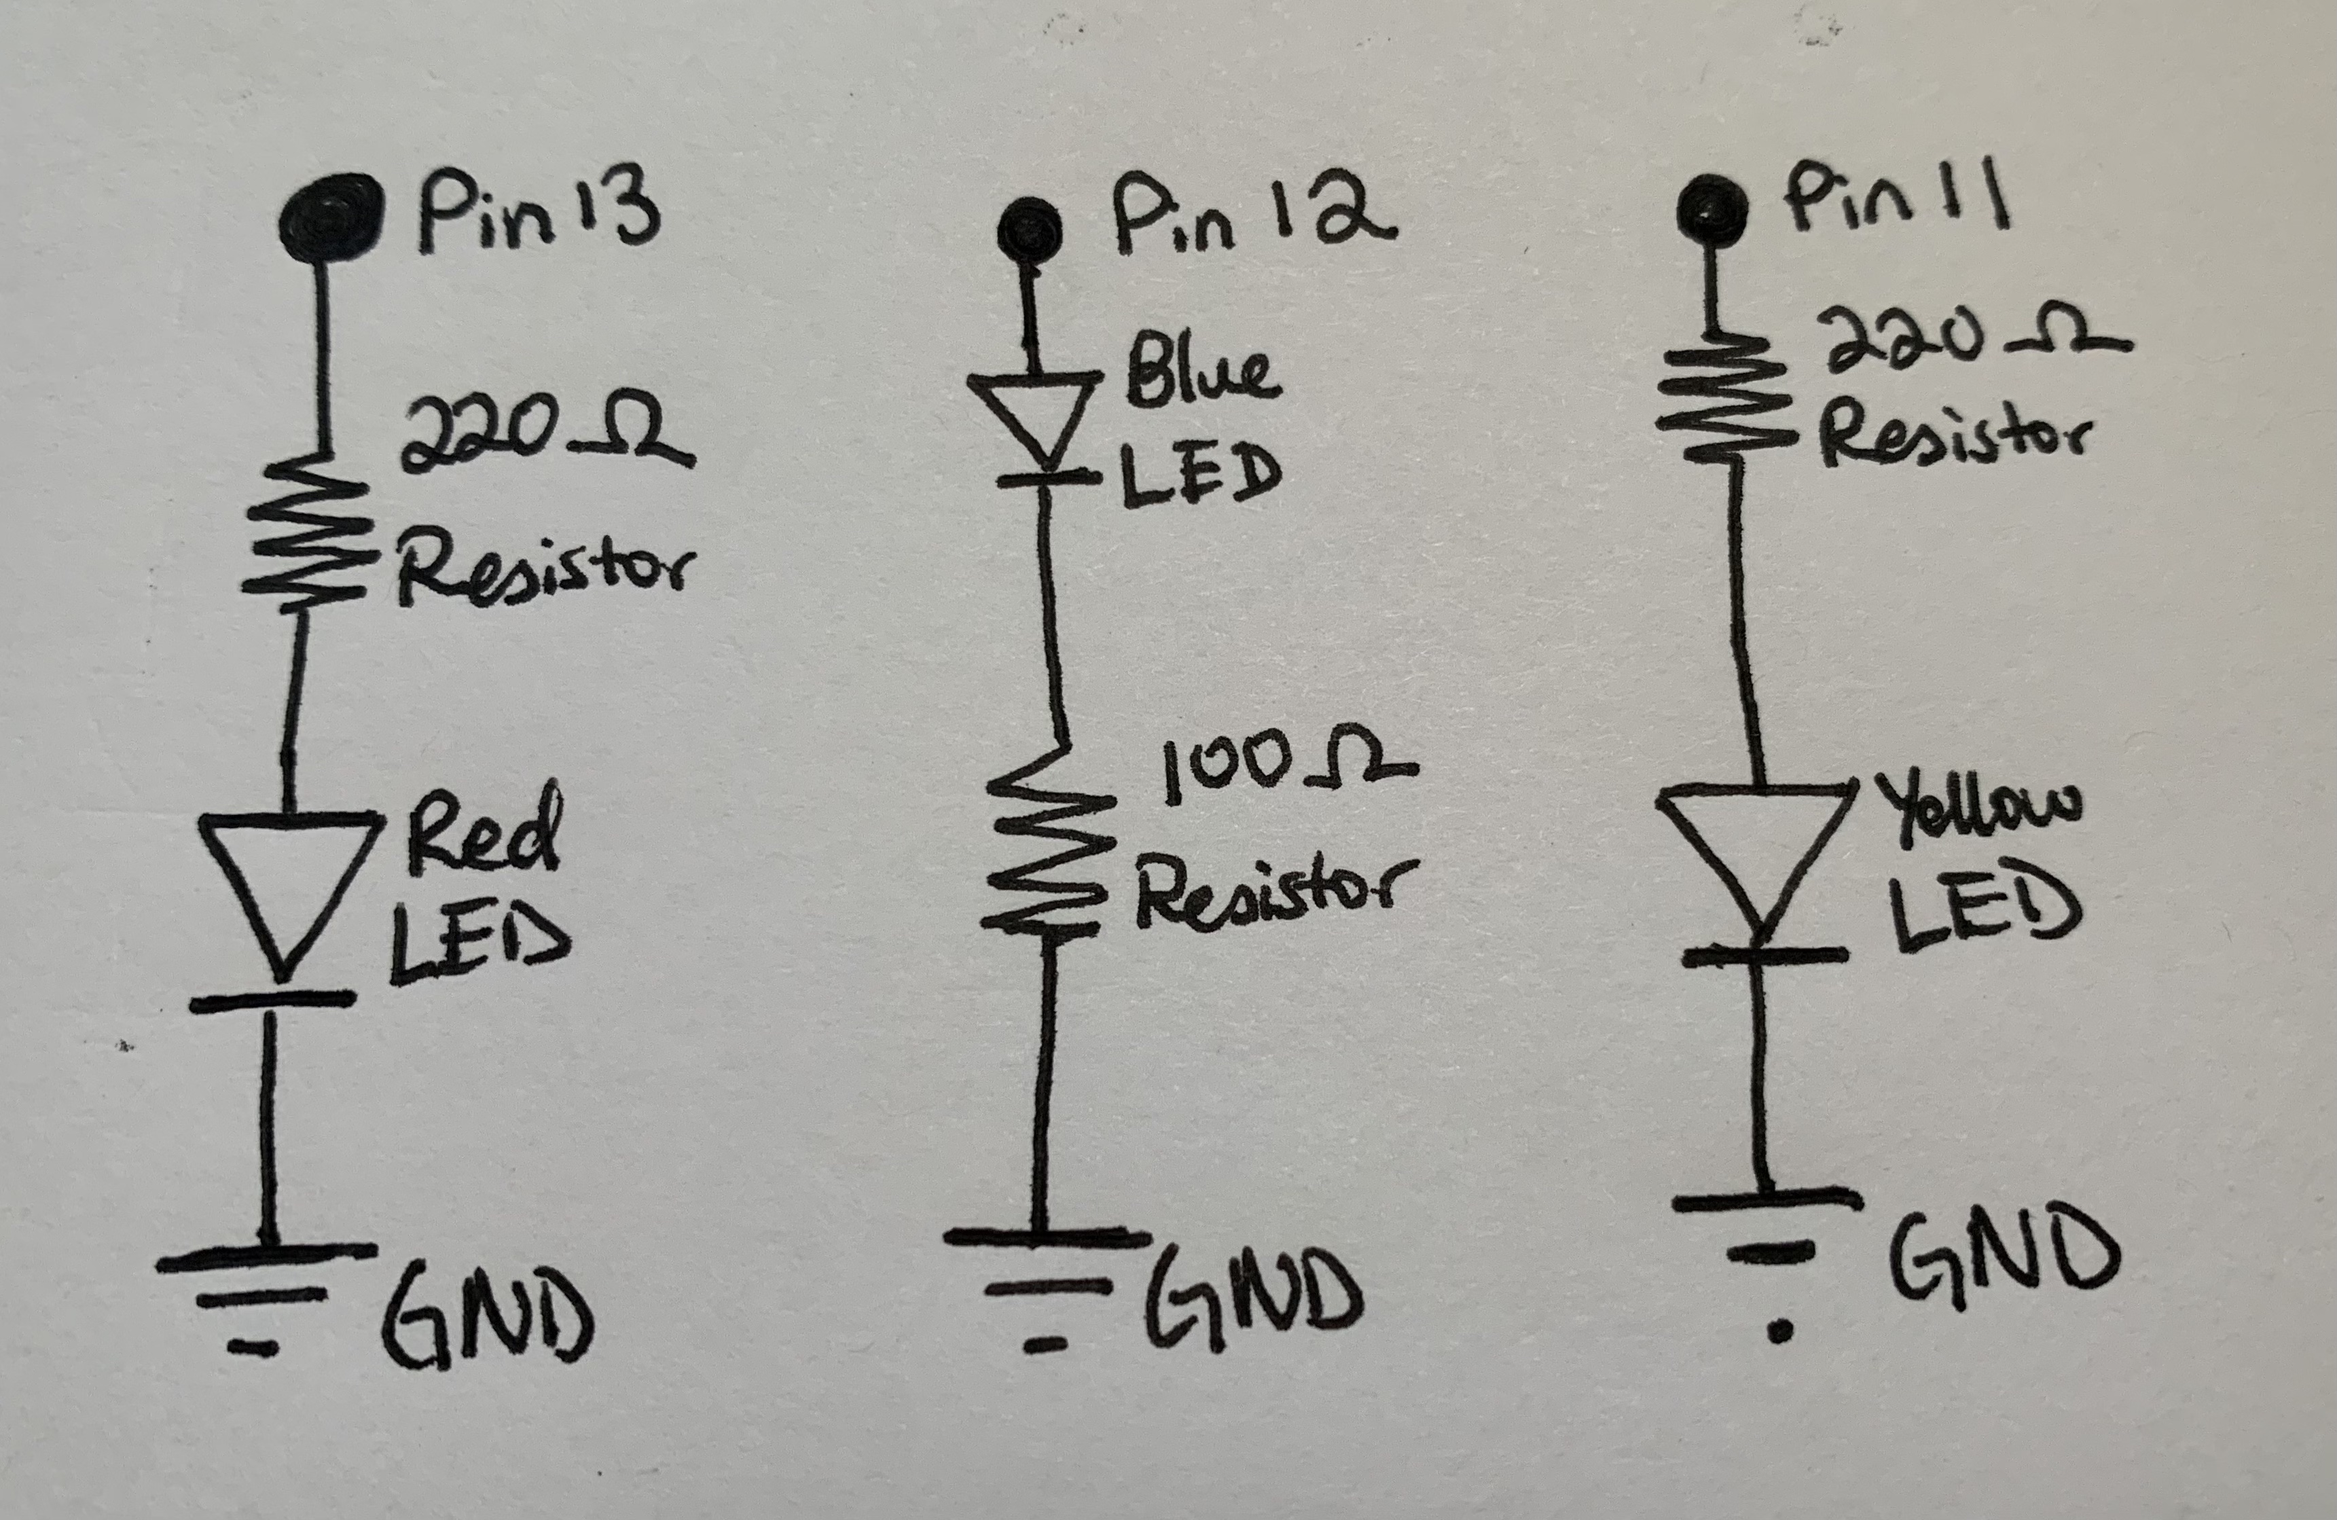
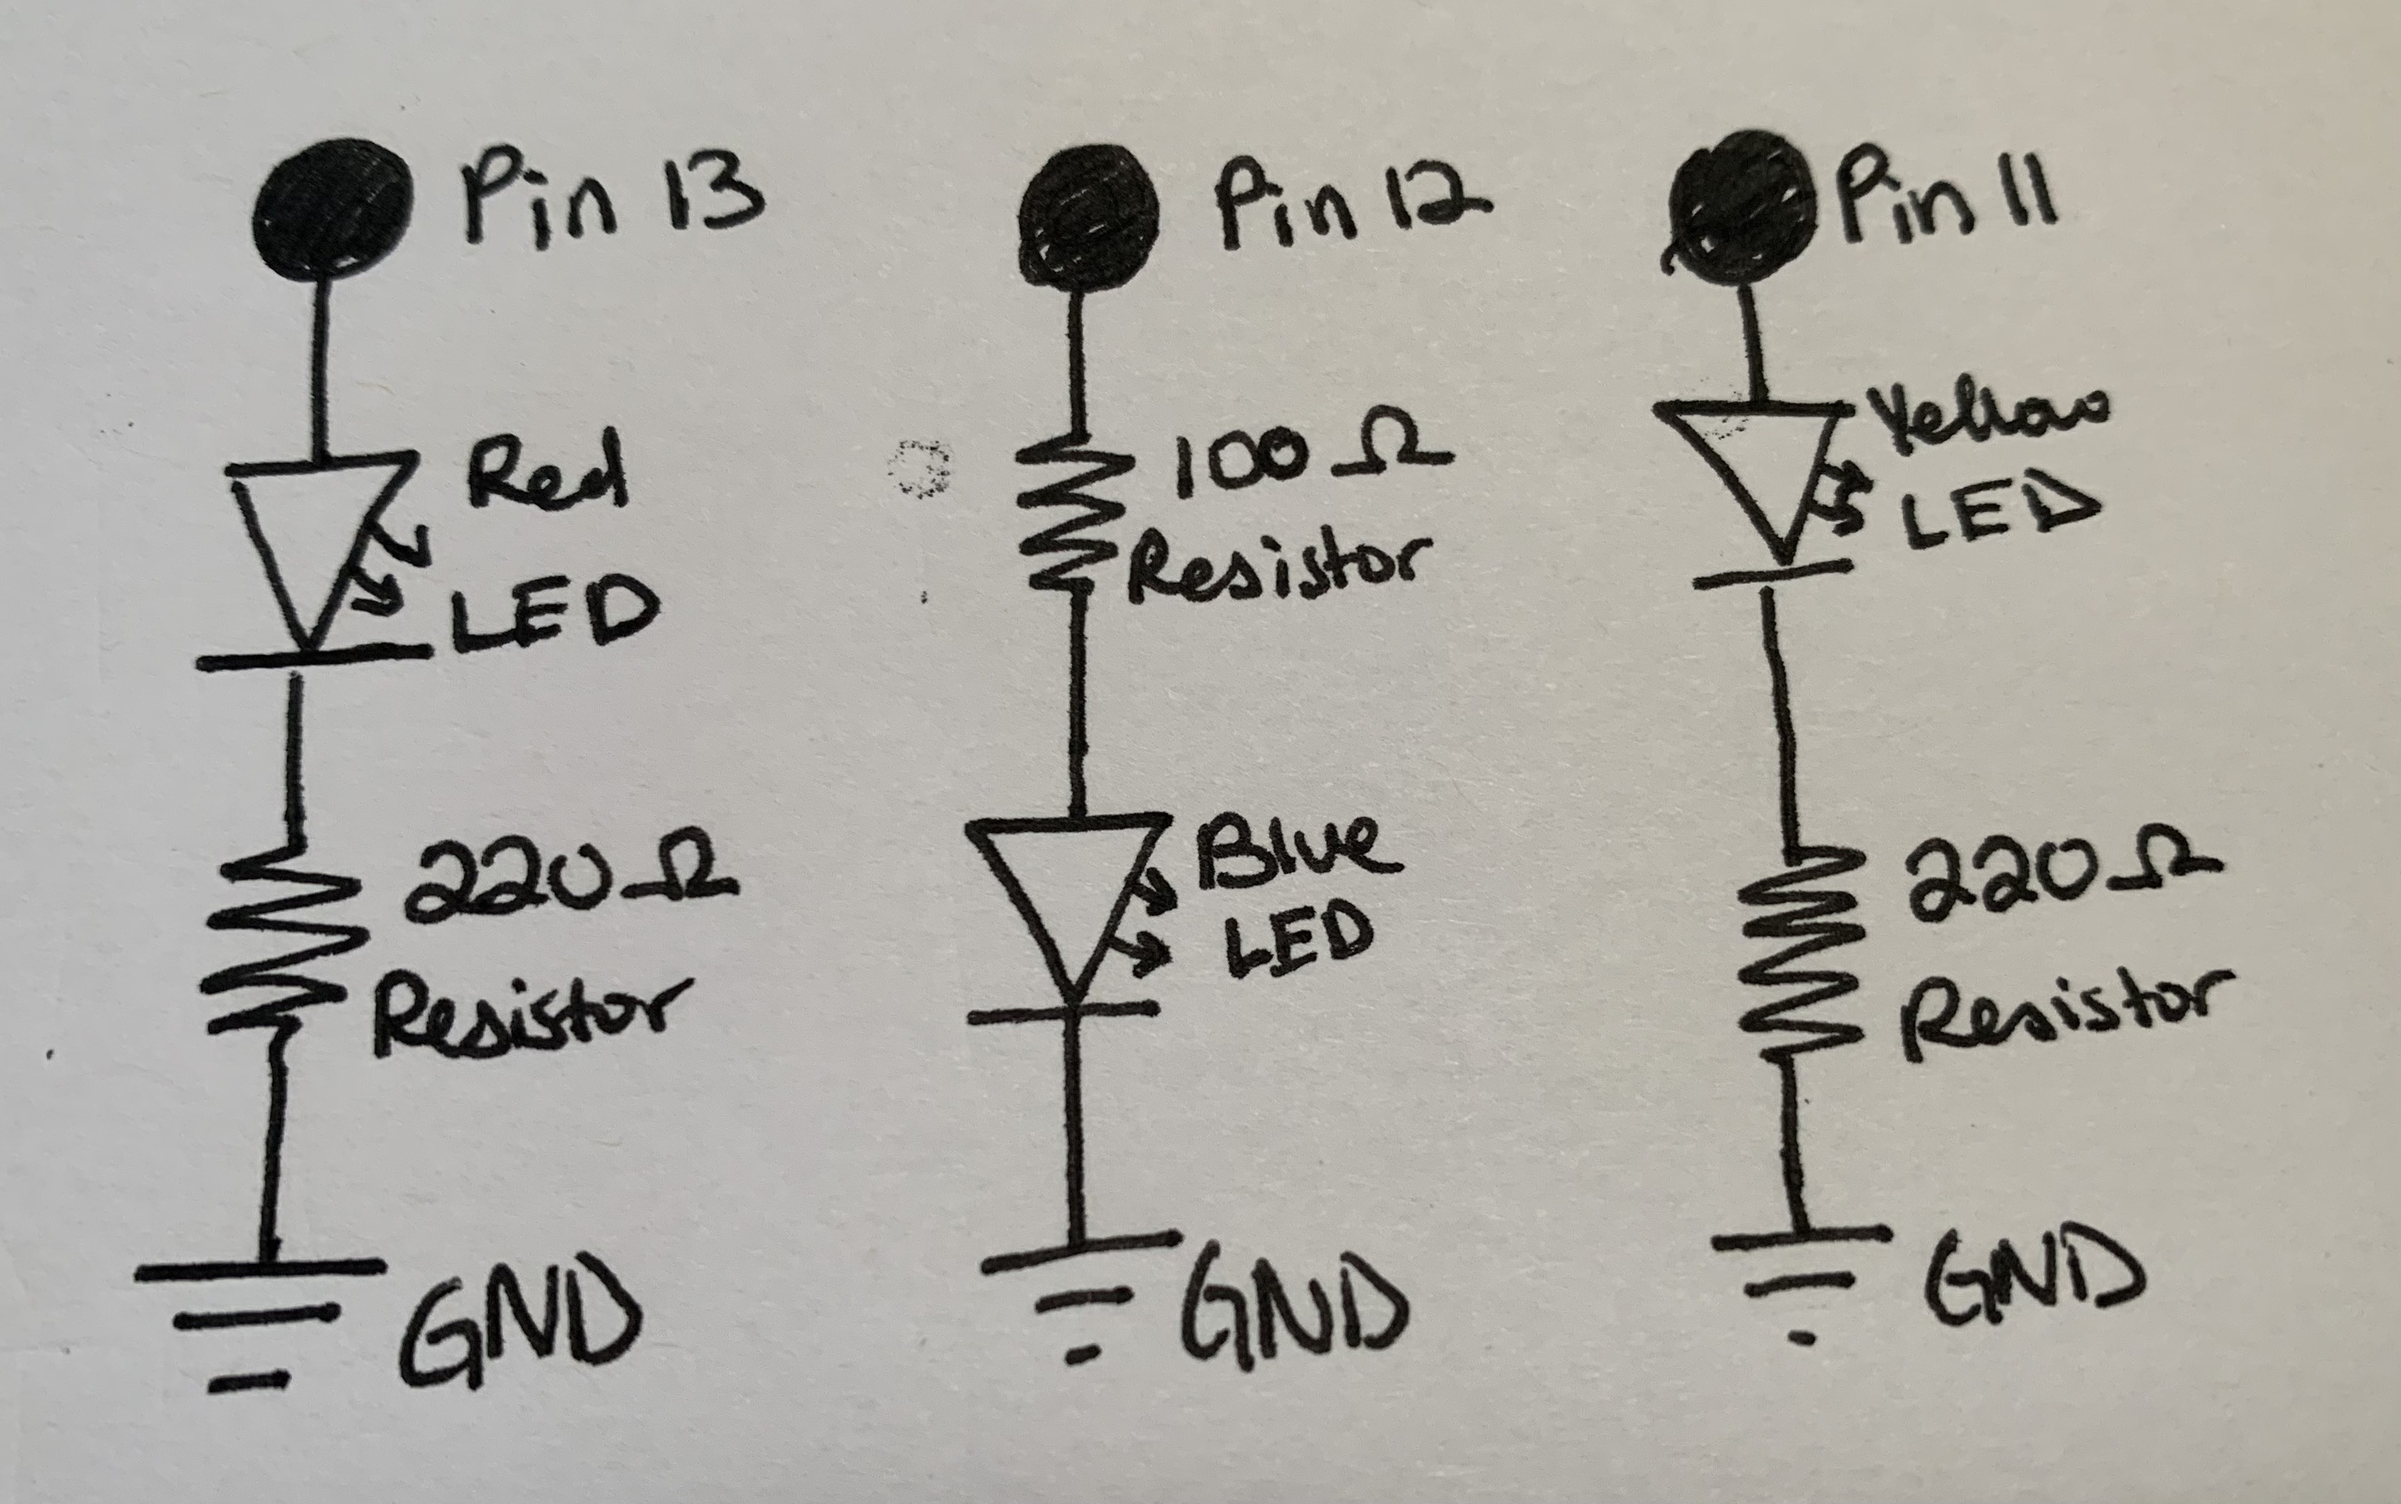
Blink 2

diff --git a/assignment1.html b/assignment1.html
@@ -76,7 +76,10 @@
     <img src="BlinkCircuit.gif" width=400></a>
 	</p>
 	<p>
-	
+	In this circuit there are 4 wires connected to the arduino. One is connected to ground, pin 13, pin 12, and pin 11. The one connected to ground is connected to the negative row of the breadboard. For pin 13 and 11, the wire connects to an LED, which is then connected to a resistor. For pin 12, the resistor is connected first. This was done to make it look more interesting. Pin 12 has wires connecting the resistor and the LED because I was concerned about stretching the LED prongs too far. The resistor prongs seem to be a bit more forgiving.
+    </p>
+    <p>
+    Due to the length of the video the gif is sped up about 2x from real time. The video length was 1:06 minutes, and with the software I used to make a gif I was only allowed 300 frames and a length of 30s. 
 	</p>
         </div>
         

diff --git a/index.html b/index.html
@@ -25,9 +25,9 @@
 
             <div class="assignment">
               <a href="assignment1.html"><h2>Assignment 1: Blink!</h2>
-                  <img src="Sharffyclose.JPG" width=250></a>
+                  <img src="BlinkCircuit.gif" width=250></a>
                 <p>
-		Assignment 1 was a Sharffy closing his eyes!
+		Blink: Assignment 1!
                 </p>
             </div>
 
